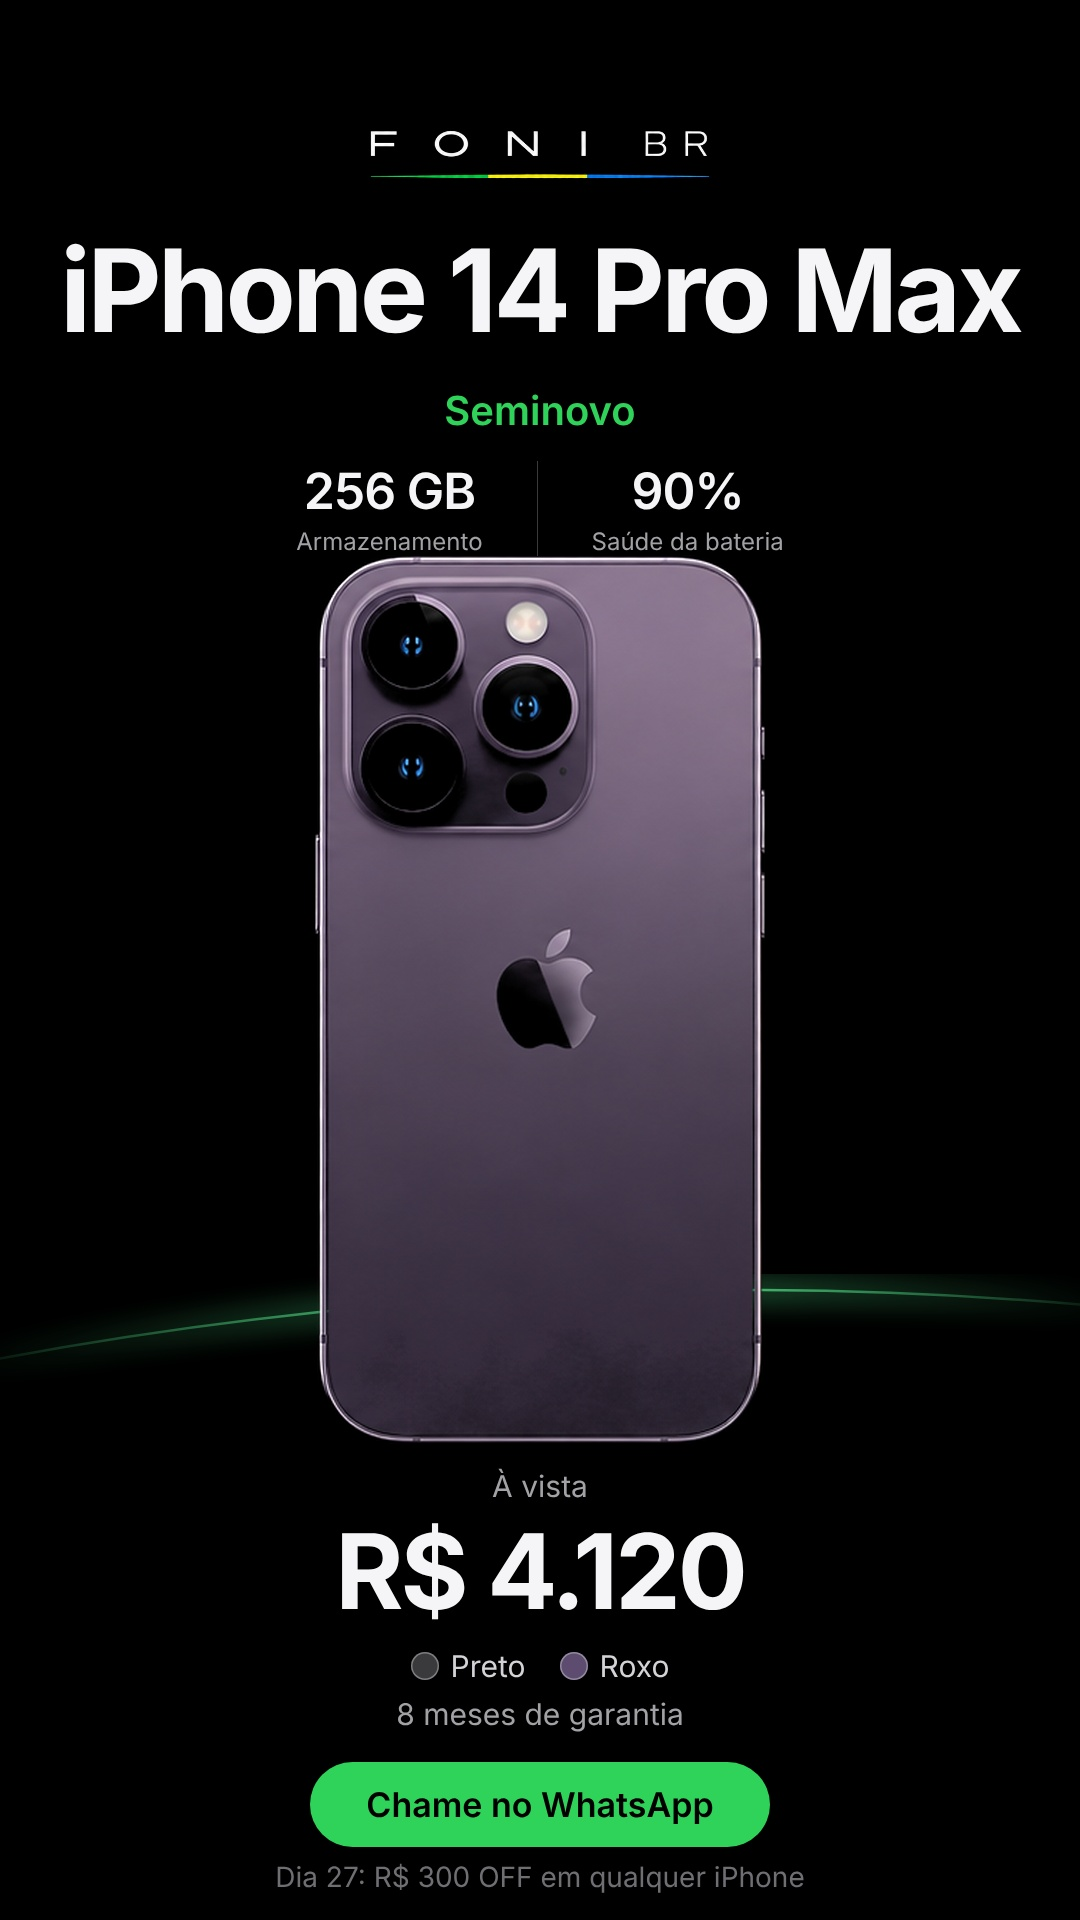
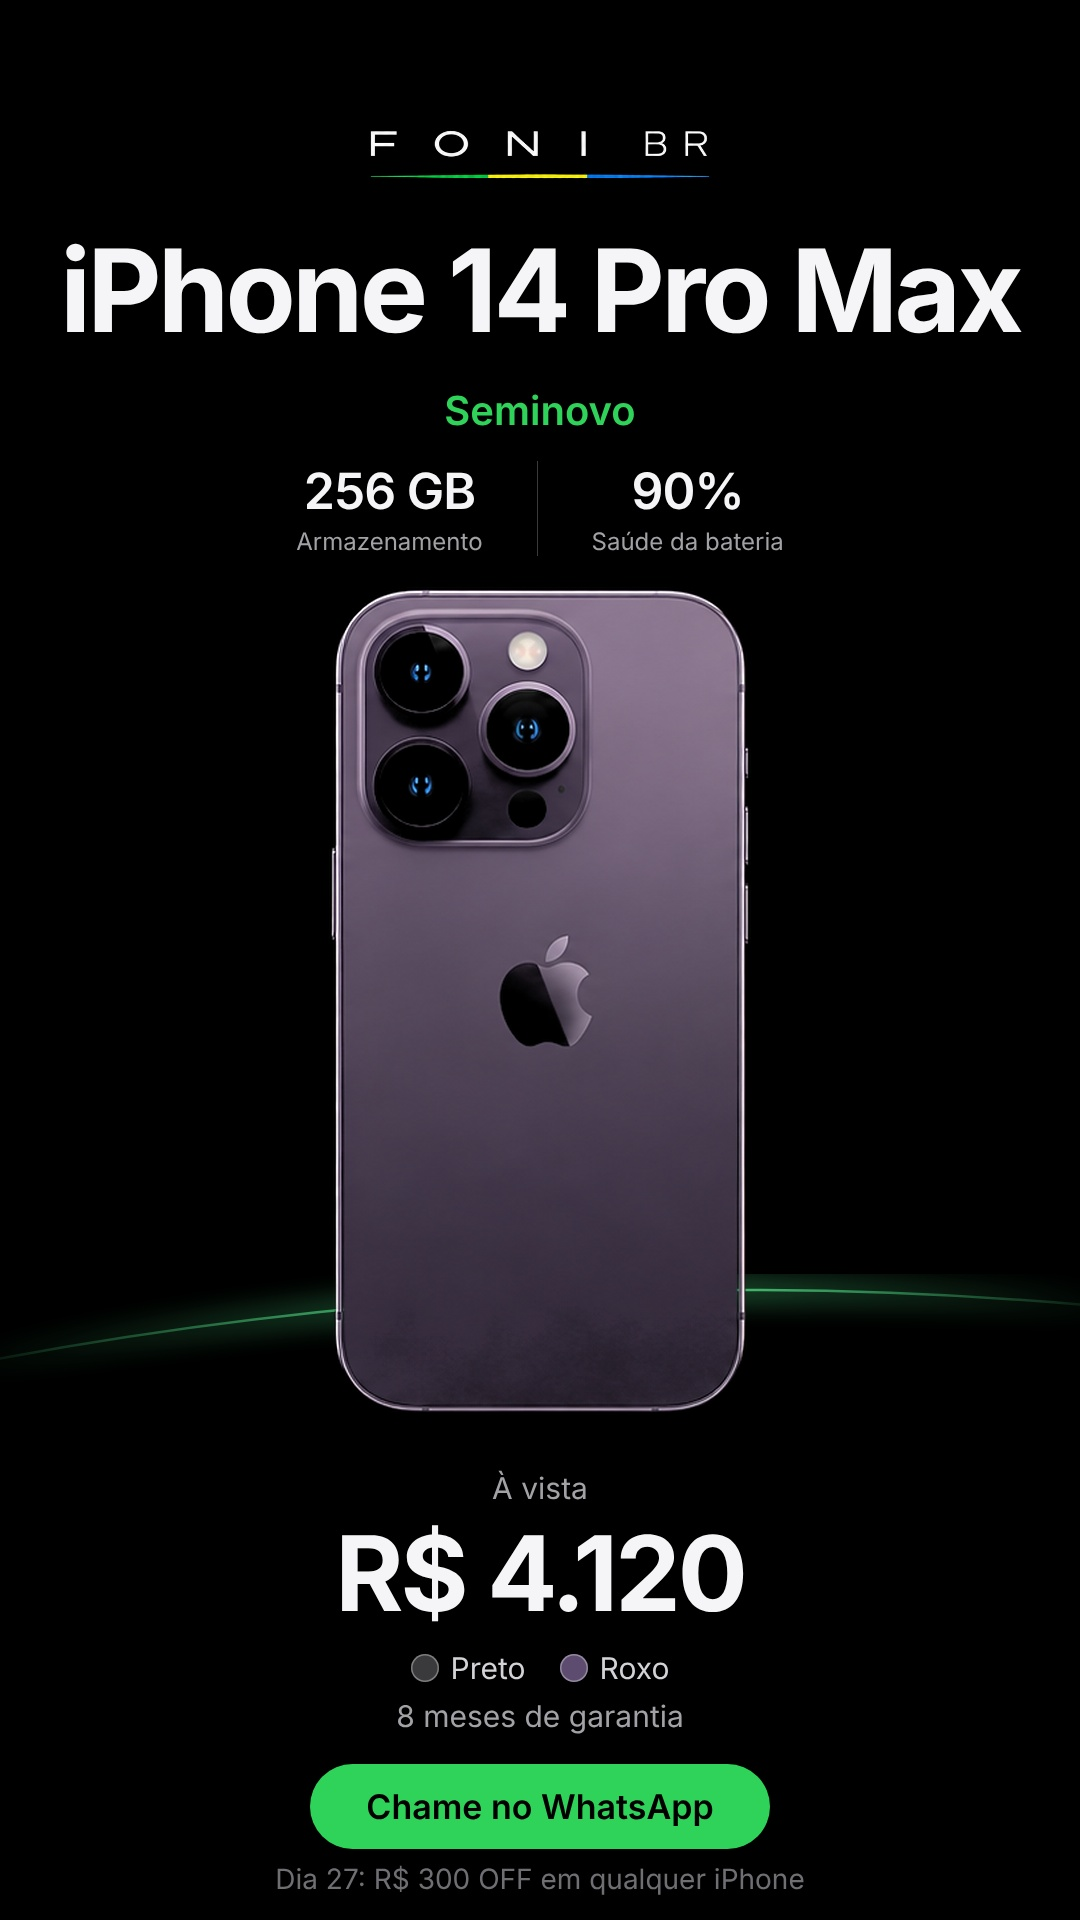
Anúncio pro_solo/promax_solo: respiro entre aparelho, specs e preço
Claude-Session: https://claude.ai/code/session_019vjRdqEKRKmJkiD9USJGwJ

diff --git a/ferramentas/anuncio_produto/gerar.py b/ferramentas/anuncio_produto/gerar.py
@@ -71,7 +71,7 @@ def chips(cores):
 
 TAMANHOS = {  # (altura da foto, topo da foto, topo do bloco de preço, topo do título, topo da promo). Pro Max maior que o Pro, para mostrar a tela maior
     "normal": (620, 660, 1345, 235, 1760), "pequeno": (580, 690, 1345, 235, 1760), "pro": (700, 625, 1365, 235, 1760), "promax": (840, 562, 1440, 200, 1805),
-    "pro_solo": (760, 600, 1385, 235, 1800), "promax_solo": (900, 548, 1468, 200, 1860),  # só traseira: um pouco maior
+    "pro_solo": (725, 618, 1392, 235, 1805), "promax_solo": (835, 582, 1470, 200, 1862),  # só traseira: um pouco maior
     "mac": (600, 680, 1345, 235, 1760), "mac_grande": (720, 615, 1380, 235, 1790),
     "largo": (500, 730, 1345, 235, 1760)}  # foto bem horizontal (ex.: trio de Apple Watch)  # notebook: foto deitada, limitada pela largura
 
